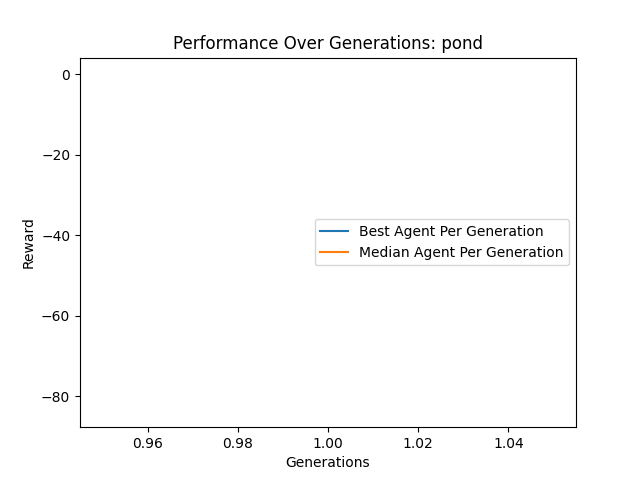
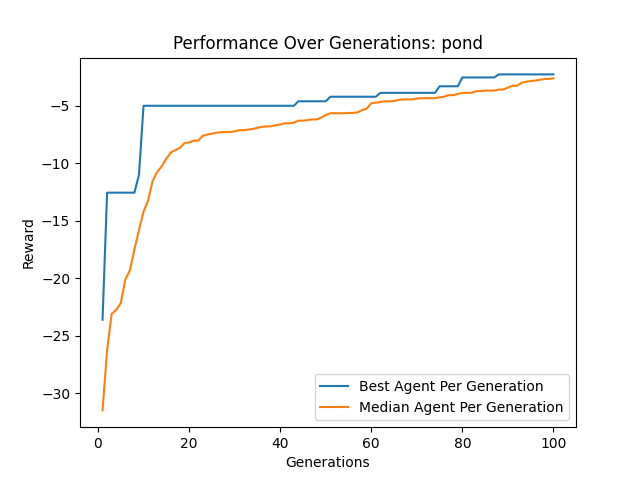
better pond

diff --git a/tasks/pond_task.py b/tasks/pond_task.py
@@ -12,6 +12,7 @@ WATER_SHORE_MASK = np.zeros(num_tiles, dtype=bool)
 PURE_WATER_MASK = np.zeros(num_tiles, dtype=bool)
 SAND_PATH_MASK = np.zeros(num_tiles, dtype=bool)
 HILL_MASK = np.zeros(num_tiles, dtype=bool)
+GRASS_MASK = np.zeros(num_tiles, dtype=bool)
 
 for idx, tile_name in enumerate(tile_symbols):
     if tile_name.startswith("water") or tile_name.startswith("shore") or tile_name == "pond":
@@ -22,6 +23,8 @@ for idx, tile_name in enumerate(tile_symbols):
         SAND_PATH_MASK[idx] = True
     if "hill" in tile_name:
         HILL_MASK[idx] = True
+    if "grass" in tile_name:
+        GRASS_MASK[idx] = True
 
 def pond_reward(grid: np.ndarray) -> tuple[float, dict[str, Any]]:
     water_percent = percent_target_tiles_excluding_excluded_tiles(
@@ -32,9 +35,14 @@ def pond_reward(grid: np.ndarray) -> tuple[float, dict[str, Any]]:
         grid, PURE_WATER_MASK, SAND_PATH_MASK
     ) * 100
 
+    grass_percent = percent_target_tiles_excluding_excluded_tiles(
+        grid, GRASS_MASK, SAND_PATH_MASK
+    ) * 100
+
     # Reward components
     water_penalty = water_percent - 25 if water_percent < 25 else 0
-    water_center_penalty = pure_water_percent - 30 if pure_water_percent < 30 else 0
+    water_center_penalty = pure_water_percent - 10 if pure_water_percent < 10 else 0
+    grass_penalty = grass_percent - 15 if grass_percent < 15 else 0
 
     # Create binary maps
     water_binary_map = grid_to_binary_map(grid, WATER_SHORE_MASK)
@@ -46,21 +54,24 @@ def pond_reward(grid: np.ndarray) -> tuple[float, dict[str, Any]]:
     water_path_length, _ = calc_longest_path(water_binary_map)
 
     # Apply penalties
-    region_penalty = min(1 - water_regions, 0)
-    path_penalty = min(5 - water_path_length, 0)
-    land_region_penalty = min(1 - land_regions, 0)
-    hills_penalty = -int(np.sum(grid*HILL_MASK[None, None, :]))
+    region_penalty = min(5 - water_regions, 0)
+    path_penalty = min(25 - water_path_length, 0)
+    land_region_penalty = min(2 - land_regions, 0)
+    # hills_penalty = -int(np.sum(grid*HILL_MASK[None, None, :]))
     total_reward = (
         water_penalty +
-        3 * water_center_penalty +
+        5 * water_center_penalty +
         region_penalty +
         land_region_penalty +
-        hills_penalty + 
+        # hills_penalty + 
+        grass_penalty +
         path_penalty
     )
-    assert total_reward <= 0, {
+    diagnostic = {
         "percent_water": water_percent,
         "water_penalty": water_penalty,
+        "grass_percent": grass_percent,
+        "grass_penalty": grass_penalty,
         "percent_water_center": pure_water_percent,
         "water_center_penalty": water_center_penalty,
         "number_of_water_regions": water_regions,
@@ -69,8 +80,9 @@ def pond_reward(grid: np.ndarray) -> tuple[float, dict[str, Any]]:
         "land_region_penalty": land_region_penalty,
         "water_path_length": water_path_length,
         "path_penalty": path_penalty,
-        "hills_penalty": hills_penalty
+        # "hills_penalty": hills_penalty
     }
+    assert total_reward <= 0, diagnostic
 
     total_reward = (
         water_penalty +
@@ -80,17 +92,5 @@ def pond_reward(grid: np.ndarray) -> tuple[float, dict[str, Any]]:
         path_penalty
     )
 
-    return total_reward, {
-        "percent_water": water_percent,
-        "water_penalty": water_penalty,
-        "percent_water_center": pure_water_percent,
-        "water_center_penalty": water_center_penalty,
-        "number_of_water_regions": water_regions,
-        "region_penalty": region_penalty,
-        "number_of_land_regions": land_regions,
-        "land_region_penalty": land_region_penalty,
-        "water_path_length": water_path_length,
-        "path_penalty": path_penalty,
-        "hills_penalty": hills_penalty
-    }
+    return total_reward, diagnostic
 

diff --git a/tasks/hill_task.py b/tasks/hill_task.py
@@ -99,8 +99,8 @@ def hill_reward(grid: np.ndarray) -> Tuple[float, Dict[str, Any]]:
     # Water/shore tiles directly from one-hot grid
     water_or_shore_count: int = int(np.sum(grid * WATER_SHORE_MASK[None, None, :]))
 
-    MAX_ROCKS_ALLOWED: int = 3          # cap for 2x2 hill blocks
-    MIN_HILLS_REQUIRED: int = 5        # minimum enclosed areas required
+    MAX_ROCKS_ALLOWED: int = 5          # cap for 2x2 hill blocks
+    MIN_HILLS_REQUIRED: int = 3        # minimum enclosed areas required
 
     rock_penalty: float = float(max(0, num_rocks_2x2 - MAX_ROCKS_ALLOWED))
     hill_quota_penalty: float = float(max(0, MIN_HILLS_REQUIRED - num_enclosed_areas))

diff --git a/core/evolution.py b/core/evolution.py
@@ -788,6 +788,11 @@ def objective(
 
 
 if __name__ == "__main__":
+    import multiprocessing as mp
+    try:
+        mp.set_start_method("spawn")
+    except RuntimeError:
+        pass
     parser = argparse.ArgumentParser(
         description="Evolve WFC agents with optional hyperparameter tuning."
     )
